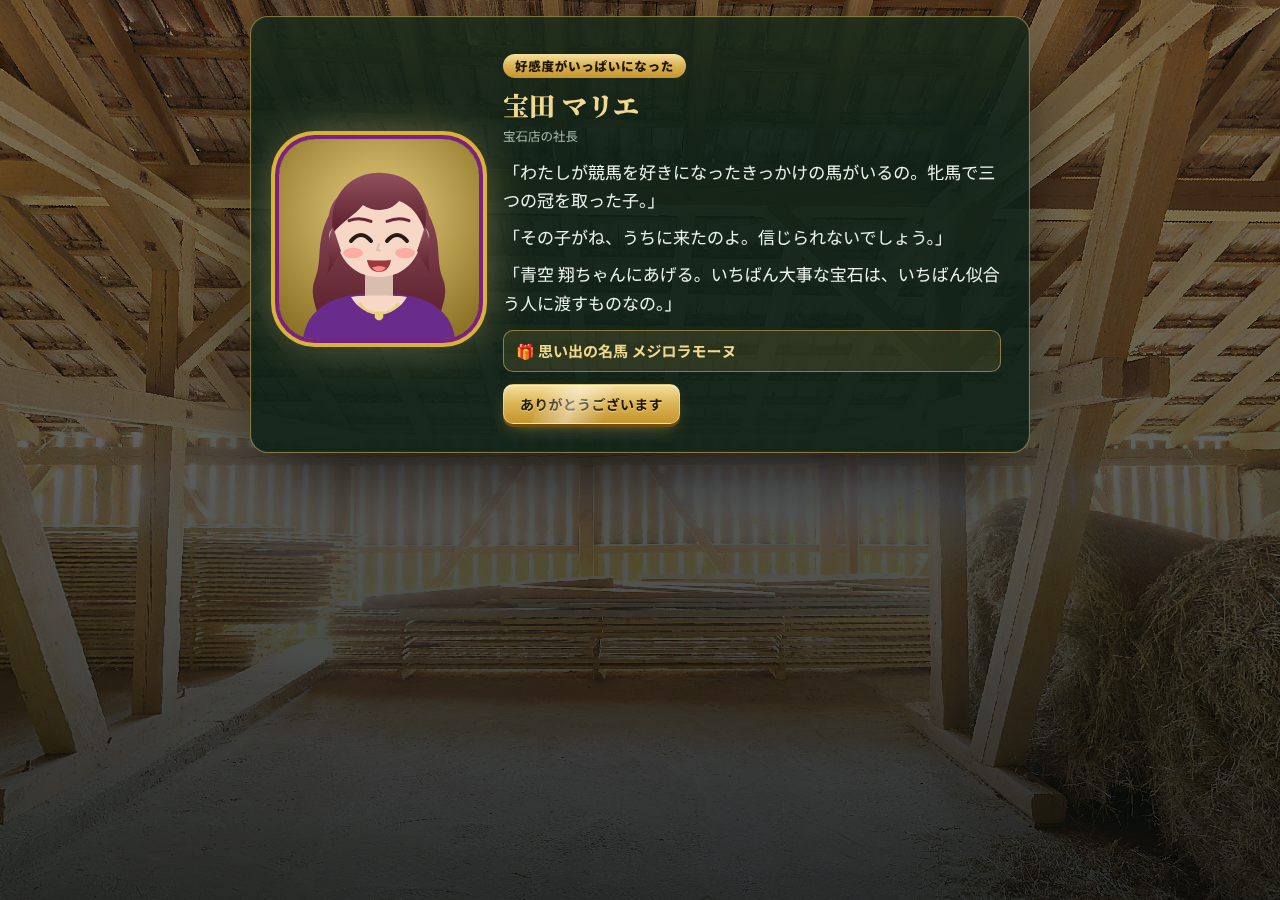
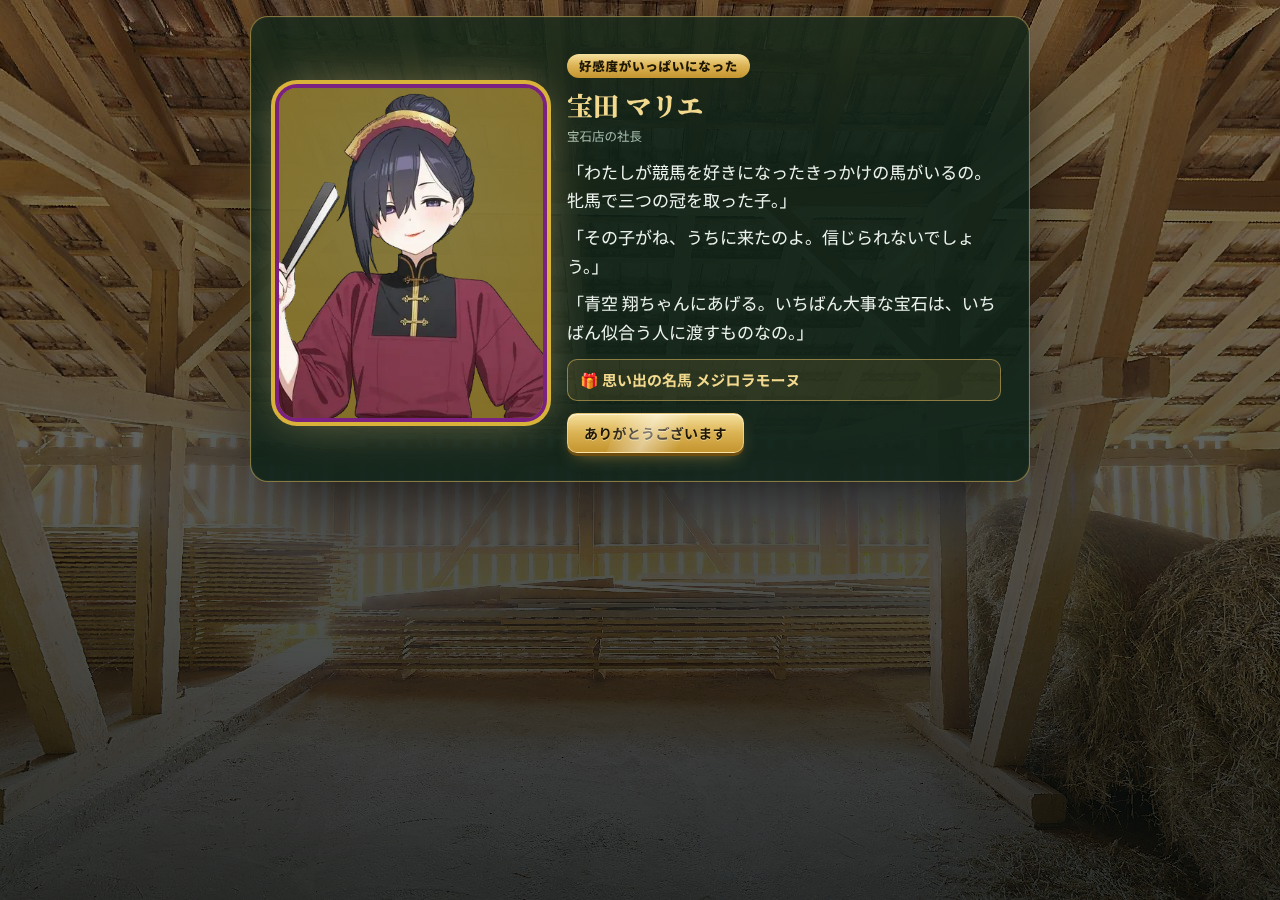
馬主の顔を持ち主の絵にする（札は丸い切り抜き・場面と一人ずつの画面は胸から上・表情の切り替え・年齢と見た目の説明）
Claude-Session: https://claude.ai/code/session_01797c6hxTtAyFG3oKa4zJQ6

Changed region(s): [[0.1875, 0.0622, 0.8125, 0.56]]

diff --git a/data/owners.js b/data/owners.js
@@ -8,7 +8,8 @@
 //   likes：好み（sprint 短距離・mile マイル・long 長距離・dirt ダート・turf 芝・filly 牝馬・front 逃げ馬・closer 差し追込・
 //          foreign 海外の馬・overseas 海外のレース・local 地方のレース・classic クラシック・young 2歳・veteran 古馬・blood 史実の血統）
 //   memory：思い出の名馬（スペシャルホース。最後のご褒美で譲ってくれる）
-//   face：顔の絵（js/ui/ownersui.js の UI.ownerFace が描く）
+//   portrait：持ち主が作った絵（assets/owners_<id>.js）の顔の中心（横・縦の％）と、札で切り抜く幅（％）
+//   face：絵が読めないときの顔（js/ui/ownersui.js の UI.ownerFace が SVG で描く）
 //   voice：口調の表（一人称・呼び方・語尾・言わないこと）。書き足すときはこれに合わせる
 //   only：これ以外の馬は持たない（filly＝牝馬だけ）
 //   lines：場面ごとの台詞。頭に [ダ]・[芝]・[短]（1400m まで）・[長]（2400m から）・[逃]・[差]（差し・追込）・[牝] を付けると、その時だけ使う。near＝顔見知り・信頼、close＝主戦・相棒。{me}＝騎手の名前、{horse}＝馬名、{race}＝レース名
@@ -17,13 +18,14 @@
   const HS = globalThis.HS = globalThis.HS || {}; HS.DATA = HS.DATA || {};
   HS.DATA.owners = [
     {
-      id: 'takenouchi', name: '竹之内 源三郎', kana: 'たけのうち げんざぶろう', age: 74, title: '老舗の料亭のご隠居',
-      note: '六十年、競馬場に通っている。話が長い。長い距離のレースに目がない。',
+      id: 'takenouchi', name: '竹之内 源三郎', kana: 'たけのうち げんざぶろう', age: 68, title: '老舗の料亭のご隠居',
+      note: '紋付きの羽織で競馬場に来る。五十年、通い続けている。話が長い。長い距離のレースに目がない。',
       silks: { base: '#1f5f3a', sub: '#ffffff', pattern: 'cross' }, cap: '#ffffff',
       likes: ['long', 'veteran', 'turf'], memory: 'シンザン',
-      face: { skin: '#f1d2b6', hair: '#d9d9de', style: 'gray', eyes: '#4a3a2c', eye: 'narrow', brow: 'thick', cloth: '#3b4a3f', collar: 'kimono', accent: '#8a7a5a', extras: ['glasses-round', 'mustache', 'wrinkles'] },
+      portrait: { x: 50, y: 17, w: 44 },
+      face: { skin: '#f1d2b6', hair: '#b8b8be', style: 'gray', eyes: '#4a3a2c', eye: 'narrow', brow: 'thick', cloth: '#3a3f55', collar: 'kimono', accent: '#e8e8e8', extras: ['wrinkles'] },
       voice: { me: 'わたし', you: '{me}くん', end: '〜ですな・〜かね・〜なさい', never: ['若者言葉', '人の悪口', '勝ち負けで声を荒げる'] },
-      intro: '竹之内と申します。府中に通って六十年になります。長いところの馬ばかり持っておりましてな。',
+      intro: '竹之内と申します。府中に通って五十年になります。長いところの馬ばかり持っておりましてな。',
       lines: {
         offer: {
           near: ['{race}に{horse}を出します。乗ってくれますかな。', '若い人の腕を見たくてね。{horse}で{race}、どうです。', '[長]{horse}は長いところで味が出る馬でして。{race}をお願いしたい。'],
@@ -38,7 +40,7 @@
           close: ['{me}くん、また一つ思い出が増えた。', 'ゴール前で立ち上がってしまったよ。膝が痛い。', 'きみが乗ると、馬が一回り大きく見えるのです。'],
         },
         bigwin: {
-          near: ['{race}を勝つ日が来るとは。六十年通って、いちばんの景色です。'],
+          near: ['{race}を勝つ日が来るとは。五十年通って、いちばんの景色です。'],
           close: ['わたしの代で{race}の口取りに立てるとは。ありがとう、{me}くん。', '{race}。家内に報告します。あれも喜ぶ。'],
         },
         good: {
@@ -65,10 +67,11 @@
     },
     {
       id: 'saginomiya', name: '鷺ノ宮 澪', kana: 'さぎのみや みお', age: 22, title: '三代続く馬主の家の跡取り',
-      note: '大学で血統を研究している。まじめで負けず嫌い。レースのたびにノートをつける。',
+      note: '大学で血統を研究している。長い黒髪に丸い眼鏡。まじめで負けず嫌い。レースのたびにノートをつける。',
       silks: { base: '#ffffff', sub: '#1d2b5a', pattern: 'hoops' }, cap: '#1d2b5a',
       likes: ['classic', 'blood', 'turf'], memory: 'シンボリルドルフ',
-      face: { skin: '#f8dcc8', hair: '#1c1c26', style: 'long', eyes: '#2c3e78', eye: 'sharp', brow: 'thin', cloth: '#1d2b5a', collar: 'blazer', accent: '#ffffff', extras: ['headband'] },
+      portrait: { x: 48, y: 22, w: 44 },
+      face: { skin: '#f8dcc8', hair: '#1c1c26', style: 'long', eyes: '#2c3e78', eye: 'sharp', brow: 'thin', cloth: '#1d2b5a', collar: 'blazer', accent: '#ffffff', extras: ['glasses-round'] },
       voice: { me: 'わたし', you: '{me}さん', end: '〜です・〜ません（短く言い切る）', never: ['「ですわ」などのお嬢さま言葉', 'くだけた若者言葉', '根拠のない楽観'] },
       intro: '鷺ノ宮です。家の馬の騎手を探しています。記録を見て、あなたに声をかけました。',
       lines: {
@@ -112,10 +115,11 @@
     },
     {
       id: 'makino', name: '牧野 ひなた', kana: 'まきの ひなた', age: 20, title: '北海道の小さな牧場の娘',
-      note: '地方の競馬場で一頭走らせたのが始まり。元気で、思ったことがすぐ顔に出る。砂の上を走る馬が好き。',
+      note: '三つ編みに緑の前掛け。地方の競馬場で一頭走らせたのが始まり。元気で、思ったことがすぐ顔に出る。砂の上を走る馬が好き。',
       silks: { base: '#2e8b3a', sub: '#ffd23f', pattern: 'stars' }, cap: '#ffd23f',
       likes: ['dirt', 'local', 'sprint'], memory: 'ハイセイコー',
-      face: { skin: '#f6d2b2', hair: '#9a5a2a', style: 'ponytail', eyes: '#5a3a1a', eye: 'round', brow: 'thin', cloth: '#4a6fa5', collar: 'overall', accent: '#e8e2d0', extras: ['bandana', 'freckles'] },
+      portrait: { x: 50, y: 19, w: 44 },
+      face: { skin: '#f6d2b2', hair: '#9a5a2a', style: 'ponytail', eyes: '#5a3a1a', eye: 'round', brow: 'thin', cloth: '#1f8a7a', collar: 'overall', accent: '#ffffff', extras: ['freckles'] },
       voice: { me: 'あたし', you: '騎手さん（仲良くなると{me}さん）', end: '〜っしょ・〜だべ・なまら・したっけ（北海道のことば）', never: ['ていねいすぎる敬語', '人を見下す言い方', '馬を道具のように言う'] },
       intro: '牧野ひなたです！ 北海道の牧場から来ました。うちの子たち、砂ならなまら走るんです。',
       lines: {
@@ -159,10 +163,11 @@
     },
     {
       id: 'kirishima', name: '霧島 玲', kana: 'きりしま れい', age: 36, title: '海外帰りの元騎手',
-      note: 'フランスで十年乗った。落馬で鞍を降り、馬主になった。口数が少なく、騎乗には厳しい。褒めるときは短く褒める。',
+      note: '銀髪に眼鏡、紺のコート。フランスで十年乗った。落馬で鞍を降り、馬主になった。口数が少なく、騎乗には厳しい。褒めるときは短く褒める。',
       silks: { base: '#16181e', sub: '#b71c1c', pattern: 'yoke' }, cap: '#b71c1c',
       likes: ['overseas', 'foreign', 'long', 'closer'], memory: 'ダンシングブレーヴ',
-      face: { skin: '#f3d6c4', hair: '#b8bcc8', style: 'bob', eyes: '#3a4a5a', eye: 'sharp', brow: 'thin', cloth: '#22252c', collar: 'shirt', accent: '#f4f4f4', extras: ['earring'] },
+      portrait: { x: 50, y: 22, w: 44 },
+      face: { skin: '#f3d6c4', hair: '#b8bcc8', style: 'bob', eyes: '#3a4a5a', eye: 'sharp', brow: 'thin', cloth: '#2a3048', collar: 'shirt', accent: '#f4f4f4', extras: ['glasses'] },
       voice: { me: '私', you: '君（仲良くなると{me}と呼び捨て）', end: '〜だ・〜だね・〜して（短い）', never: ['長いお世辞', '大げさに騒ぐ', '自分の昔の勝ちの自慢'] },
       intro: '霧島だ。向こうで十年乗っていた。いい騎手を探している。',
       lines: {
@@ -205,11 +210,12 @@
       },
     },
     {
-      id: 'sengoku', name: '千石 悠斗', kana: 'せんごく ゆうと', age: 29, title: 'アプリで当てた会社の若社長',
-      note: '家計簿のアプリが当たり、馬主になって二年目。せっかちで明るい。話は結論から。短い距離の速い馬が好き。',
+      id: 'sengoku', name: '千石 悠斗', kana: 'せんごく ゆうと', age: 26, title: 'アプリで当てた会社の若社長',
+      note: '家計簿のアプリが当たり、馬主になって二年目。白いシャツにベストで、ネクタイは締めない。せっかちで明るい。話は結論から。短い距離の速い馬が好き。',
       silks: { base: '#00a3e0', sub: '#ffffff', pattern: 'diamonds' }, cap: '#ffffff',
       likes: ['sprint', 'mile', 'young'], memory: 'ニホンピロウイナー',
-      face: { skin: '#f4d4bc', hair: '#3a2a22', style: 'short', eyes: '#3a2a1a', eye: 'round', brow: 'thick', cloth: '#ff7a1a', collar: 'hoodie', accent: '#2a2a2a', extras: ['glasses'] },
+      portrait: { x: 50, y: 18, w: 44 },
+      face: { skin: '#f4d4bc', hair: '#16161c', style: 'short', eyes: '#5a3a1a', eye: 'sharp', brow: 'thick', cloth: '#8a4a1e', collar: 'shirt', accent: '#ffffff', extras: [] },
       voice: { me: '僕', you: 'ジョッキー（仲良くなると{me}さん）', end: '〜です・〜っす（仕事の言葉を混ぜる：結論から・次の打ち手・アップデート）', never: ['年寄りくさい言い回し', '長い前置き', 'お金で人を測る言い方'] },
       intro: '千石です。結論から言うと、速い馬が好きです。乗ってくれる人を探してます。',
       lines: {
@@ -253,10 +259,11 @@
     },
     {
       id: 'hanabusa', name: '花房 つむぎ', kana: 'はなぶさ つむぎ', age: 25, title: '和菓子屋の若おかみ',
-      note: '創業百年の和菓子屋を継ぎ、先代から馬も受け継いだ。ふだんはおっとりしているのに、逃げ馬の話になると止まらない。',
+      note: '着物でそろばんを抱えて店に立つ。創業百年の和菓子屋を継ぎ、先代から馬も受け継いだ。ふだんはおっとりしているのに、逃げ馬の話になると止まらない。',
       silks: { base: '#e04e9a', sub: '#ffffff', pattern: 'stripes' }, cap: '#ffffff',
       likes: ['front', 'turf', 'mile'], memory: 'カブラヤオー',
-      face: { skin: '#f9dccb', hair: '#2a1c18', style: 'bun', eyes: '#4a2a22', eye: 'soft', brow: 'thin', cloth: '#c94f7c', collar: 'kimono', accent: '#f6e6c8', extras: ['hairpin'] },
+      portrait: { x: 50, y: 19, w: 44 },
+      face: { skin: '#f9dccb', hair: '#e8d8b8', style: 'bob', eyes: '#4a2a22', eye: 'soft', brow: 'thin', cloth: '#c94f7c', collar: 'kimono', accent: '#f6e6c8', extras: ['hairpin'] },
       voice: { me: 'わたし', you: '{me}さん', end: '〜ですね・〜しましょ（やわらかい。逃げ馬の話だけ熱い）', never: ['乱暴な言葉', '人をせかす言い方', '後ろから行く作戦をすすめる'] },
       intro: '花房と申します。和菓子屋をしております。うちの子たちは、みんな前に行きたがるんです。',
       lines: {
@@ -299,11 +306,12 @@
       },
     },
     {
-      id: 'takarada', name: '宝田 マリエ', kana: 'たからだ まりえ', age: 47, title: '宝石店の社長',
-      note: '銀座で宝石店を営む。牝馬しか買わず、自分の馬を「お嬢さん」と呼ぶ。華やかで世話好き。',
+      id: 'takarada', name: '宝田 マリエ', kana: 'たからだ まりえ', age: 38, title: '宝石店の社長',
+      note: '銀座で宝石店を営む。黒髪を結い上げ、えんじの服に扇子。牝馬しか買わず、自分の馬を「お嬢さん」と呼ぶ。華やかで世話好き。',
       silks: { base: '#d9b23a', sub: '#7a2182', pattern: 'sash' }, cap: '#7a2182',
       likes: ['filly', 'mile', 'turf'], only: 'filly', memory: 'メジロラモーヌ',
-      face: { skin: '#f7d8c6', hair: '#7a2a3a', style: 'wavy', eyes: '#5a2a4a', eye: 'soft', brow: 'thin', cloth: '#6a2c8a', collar: 'dress', accent: '#e8d27a', extras: ['earring', 'lashes', 'necklace'] },
+      portrait: { x: 52, y: 22, w: 44 },
+      face: { skin: '#f7d8c6', hair: '#1a1a24', style: 'bun', eyes: '#5a2a4a', eye: 'soft', brow: 'thin', cloth: '#7a1e2a', collar: 'dress', accent: '#e8d27a', extras: ['earring', 'lashes', 'necklace'] },
       voice: { me: 'わたし', you: 'あなた（仲良くなると{me}ちゃん）', end: '〜なのよ・〜かしら・〜ちょうだい', never: ['乱暴な言葉', '牡馬を買う話', '値段で馬を語る'] },
       intro: '宝田マリエよ。うちのお嬢さんたちに似合う騎手を探しているの。',
       lines: {

diff --git a/js/ui/ownersui.js b/js/ui/ownersui.js
@@ -10,7 +10,27 @@
   // ---------- 顔の絵（画像ファイルは使わず SVG で描く。髪型・髪の色・目・服を馬主ごとに） ----------
   // mood：normal・smile・happy・sad
   let fid = 0;
-  UI.ownerFace = function (o, mood, size) {
+  // 持ち主が作った絵（assets/owners_<id>.js。HS.ASSETS.owner_<id>_<base|smile|joy|sad>）。札では顔を丸い枠に切り抜き、opts.big で胸から上
+  const PMOOD = { normal: 'base', smile: 'smile', happy: 'joy', sad: 'sad' };
+  UI.ownerPortrait = function (o, mood) {
+    const A0 = HS.ASSETS || {};
+    return A0[`owner_${o.id}_${PMOOD[mood] || 'base'}`] || A0[`owner_${o.id}_base`] || null;
+  };
+  UI.ownerFace = function (o, mood, size, opts) {
+    opts = opts || {};
+    const src = o.portrait && UI.ownerPortrait(o, mood || 'normal');
+    if (!src) return UI.ownerFaceSvg(o, mood, size);
+    const sz = size || 64;
+    if (opts.big) {
+      const w = Math.round(sz * 1.2), h = Math.round(w * 1.25);
+      return `<span class="oface oport big" style="width:${w}px;height:${h}px" role="img" aria-label="${e(o.name)}"><img src="${src}" alt="" draggable="false"></span>`;
+    }
+    const p = o.portrait, iw = sz / (p.w / 100), ih = iw * 1.25;
+    const left = sz / 2 - p.x / 100 * iw, top = sz / 2 - p.y / 100 * ih;
+    return `<span class="oface oport" style="width:${sz}px;height:${sz}px" role="img" aria-label="${e(o.name)}"><img src="${src}" alt="" draggable="false" style="width:${iw.toFixed(1)}px;height:${ih.toFixed(1)}px;left:${left.toFixed(1)}px;top:${top.toFixed(1)}px"></span>`;
+  };
+  // 絵が読めないときの顔（SVG）
+  UI.ownerFaceSvg = function (o, mood, size) {
     const f = o.face || {};
     mood = mood || 'normal';
     const id = 'of' + (++fid);
@@ -215,7 +235,7 @@
     const log = s.log.filter(x => x.oid === o.id).slice(0, 12);
     const T = HS.Season;
     return `<div class="own-hero" style="--oc:${o.silks.base};--oc2:${o.silks.sub}">
-        <div class="own-face big">${UI.ownerFace(o, st.tier >= 2 ? 'happy' : 'smile', 168)}</div>
+        <div class="own-face big">${UI.ownerFace(o, st.tier >= 2 ? 'happy' : 'smile', 180, { big: true })}</div>
         <div class="grow">
           <div class="small muted">${e(o.kana)}・${o.age}歳</div>
           <div class="own-name">${e(o.name)} ${tierChip(o.id)}</div>
@@ -259,7 +279,7 @@
       const lines = O.sceneLines(q.oid, q.kind, { horse: q.horse || '' });
       if (HS.Audio && HS.Audio.se) HS.Audio.se('coin');
       const bg = App.modal(`<div class="own-scene" style="--oc:${o.silks.base};--oc2:${o.silks.sub}">
-          <div class="own-scene-face">${UI.ownerFace(o, 'happy', 200)}</div>
+          <div class="own-scene-face">${UI.ownerFace(o, 'happy', 220, { big: true })}</div>
           <div class="own-scene-body">
             <div class="own-kicker">${e(KICK[q.kind] || '')}</div>
             <div class="own-name">${e(o.name)}<small>${e(o.title)}</small></div>

diff --git a/tests/extra_owners.js b/tests/extra_owners.js
@@ -22,6 +22,11 @@ module.exports = function (check, assert, HS) {
         const set = (o.lines[sc] || {})[k] || [];
         assert(set.length >= 1 && set.some(t => !/^\[/.test(t)), `${o.name} の ${sc}.${k} に、印の無い文が無い`);
       }
+      // 持ち主が作った絵：顔の位置があり、assets/owners_<id>.js に4つの表情がある
+      assert(o.portrait && o.portrait.x > 0 && o.portrait.y > 0 && o.portrait.w > 0, `${o.name} の絵の顔の位置が無い`);
+      const af = require('path').join(__dirname, '..', 'assets', `owners_${o.id}.js`);
+      const at = require('fs').existsSync(af) ? require('fs').readFileSync(af, 'utf8') : '';
+      for (const m of ['base', 'smile', 'joy', 'sad']) assert(at.includes(`owner_${o.id}_${m}`), `${o.name} の絵 owner_${o.id}_${m} が無い`);
       for (const k of ['up1', 'up2', 'up3', 'gift', 'bond', 'award']) assert((o.scenes[k] || []).length >= 2, `${o.name} の場面 ${k} が無い`);
       const all = JSON.stringify([o.lines, o.scenes, o.intro]);
       for (const m of all.matchAll(/\{(\w+)\}/g)) assert(['me', 'horse', 'race'].includes(m[1]), `${o.name} の文に知らない差し込み {${m[1]}}`);

diff --git a/css/owners.css b/css/owners.css
@@ -76,3 +76,10 @@ button.own-face:hover .oface { transform: translateY(-2px); transition: transfor
 @media (prefers-reduced-motion: reduce) { .own-talk p, .own-reward, .own-scene-face, .own-offers .own-offer { animation: none; opacity: 1; } }
 .own-card .own-silks { position: absolute; top: 10px; right: 10px; }
 .own-card .own-who { padding-right: 30px; }
+
+/* 持ち主が作った絵：札は顔を丸く切り抜き、場面と一人ずつの画面は胸から上 */
+.oport { position: relative; display: block; overflow: hidden; background: radial-gradient(circle at 50% 35%, color-mix(in srgb, var(--oc, var(--accent)) 45%, #fff 10%), color-mix(in srgb, var(--oc, var(--accent)) 60%, #000 30%)); }
+.oport img { position: absolute; max-width: none; user-select: none; pointer-events: none; }
+.oport:not(.big) { border-radius: 50%; }
+.oport.big { border-radius: var(--r-xl); }
+.oport.big img { position: absolute; left: -20%; top: 0; width: 140%; height: auto; }

diff --git a/CHANGELOG.md b/CHANGELOG.md
@@ -1,7 +1,7 @@
 # 更新履歴
 
 ## 次の版
-- 馬主のキャラクター7人（料亭のご隠居・名門の跡取り・北海道の牧場の娘・元騎手・若社長・和菓子屋の若おかみ・宝石店の社長）から、毎週の騎乗依頼が来るようにした。ホームの「騎乗依頼」で受ける・断るを選び、受けた馬には自分で乗る（おまかせも可）。騎乗料と賞金の一部が入る。依頼を受けて結果を出すと好感度が上がり、顔見知り → 信頼 → 主戦 → 相棒と段階が上がるほど、重賞・G1・グランドフィナーレの強い馬の依頼が来る（断ると少し下がるが、段階は下がらない）。段階ごとのご褒美（祝いの品・勝負服を自分の馬に着せる・引退した馬を牧場に譲ってもらう・好感度がいっぱいで思い出のスペシャルホース）と、年末の「名コンビ賞」。パドックとレースのあとに馬主のひと言。ホームから馬主の一覧と、一人ずつの画面（段階とご褒美・持ち馬・依頼の記録）を開ける。
+- 馬主のキャラクター7人（料亭のご隠居・名門の跡取り・北海道の牧場の娘・元騎手・若社長・和菓子屋の若おかみ・宝石店の社長）から、毎週の騎乗依頼が来るようにした。ホームの「騎乗依頼」で受ける・断るを選び、受けた馬には自分で乗る（おまかせも可）。騎乗料と賞金の一部が入る。依頼を受けて結果を出すと好感度が上がり、顔見知り → 信頼 → 主戦 → 相棒と段階が上がるほど、重賞・G1・グランドフィナーレの強い馬の依頼が来る（断ると少し下がるが、段階は下がらない）。段階ごとのご褒美（祝いの品・勝負服を自分の馬に着せる・引退した馬を牧場に譲ってもらう・好感度がいっぱいで思い出のスペシャルホース）と、年末の「名コンビ賞」。パドックとレースのあとに馬主のひと言。ホームから馬主の一覧と、一人ずつの画面（段階とご褒美・持ち馬・依頼の記録）を開ける。馬主の顔は持ち主が描いた絵で、札では丸く切り抜いた顔、ご褒美の場面と一人ずつの画面では胸から上の大きな絵を出し、喜び・残念などで表情が変わる。
 - 競馬場の形と坂を実際のコースどおりにした（JRA の10場・地方・海外の多く）：内回り・外回り・直線コース、コーナーの大きさとスパイラルカーブ、高低差（中山のゴール前の急坂・京都の3コーナーの坂など）。坂はレースにも効き、上りは遅く重く（坂に弱い馬ほど）、下りは少し速く楽になる。追い出してからの坂ほど強く効く。出走表のコース図に回りと高低差の線を出す。
 - 殿堂を作り直した：トロフィーを2つ以上手にした自分の馬は、引退したときに殿堂入りする。データの「殿堂」に歴代の殿堂入りしたお手馬の札が並び、押すとその馬の戦績・トロフィー・特殊能力・重賞の勝ち鞍・全成績を振り返れる。引退すれば殿堂入りする馬も出す（冠を手にした馬の一覧はその下に）。
 - 馬の店を少しずつ開くようにした：はじめは G3 までの馬だけが並び、自分の馬で G2・G1 を勝つとその格の馬、地方のレースを勝つと地方馬、海外のレースを勝つとその国の馬（ドイツのレースならドイツの馬）が並ぶ。店の上に、まだ開いていない馬の数と開け方を出す。前のセーブは自分の馬の勝ち鞍で開けておく。

diff --git a/CLAUDE.md b/CLAUDE.md
@@ -54,7 +54,7 @@ QUICK=1 node tests/run.js  # 自動プレイを短く
 | `js/core/races.js` | 週ごとのレース（重賞と条件戦）・出走できるか・優先順 | M |
 | `js/core/racesim.js` | レースの模擬（0.1秒刻み。S.create・S.step・S.finish）・プレイヤーの騎乗の操作（S.ctl）・実況・描画用のコマ | M |
 | `js/core/world.js` | 世界の状態・週の進行（W.prepareWeek → W.cards → W.finishWeek）・AI の出走・賞金・市場・配合・表彰・セーブ | C |
-| `data/owners.js`・`js/core/owners.js`・`js/ui/ownersui.js`・`css/owners.css` | 馬主のキャラクター（架空・7人。口調の表・場面ごとの台詞）と騎乗依頼・好感度の段階・ご褒美・名コンビ賞（`G.owners`）。画面はホームの依頼の札・馬主の一覧・ご褒美の場面・パドックとレースの後のひと言・顔の絵（SVG） | C |
+| `data/owners.js`・`js/core/owners.js`・`js/ui/ownersui.js`・`css/owners.css` | 馬主のキャラクター（架空・7人。口調の表・場面ごとの台詞）と騎乗依頼・好感度の段階・ご褒美・名コンビ賞（`G.owners`）。画面はホームの依頼の札・馬主の一覧・ご褒美の場面・パドックとレースの後のひと言。顔は持ち主が作った絵（`assets/owners_*.js`。札は丸い切り抜き・場面は胸から上・表情4つ）で、読めないときは SVG | C |
 | `js/core/jockey.js` | 騎手のゲーム：持ち馬の入厩・評判・腕前・お手馬・見習いの減量・リーディング・騎手の表彰（騎乗依頼は馬主のキャラクターから。`js/core/owners.js`） | C |
 | `js/ui/art.js` | 絵（馬・騎手・勝負服・肖像）。画像ファイルは使わず canvas で描く | V |
 | `js/ui/audio.js` | BGM と効果音（Web Audio で鳴らす。曲は書き下ろし） | V |
